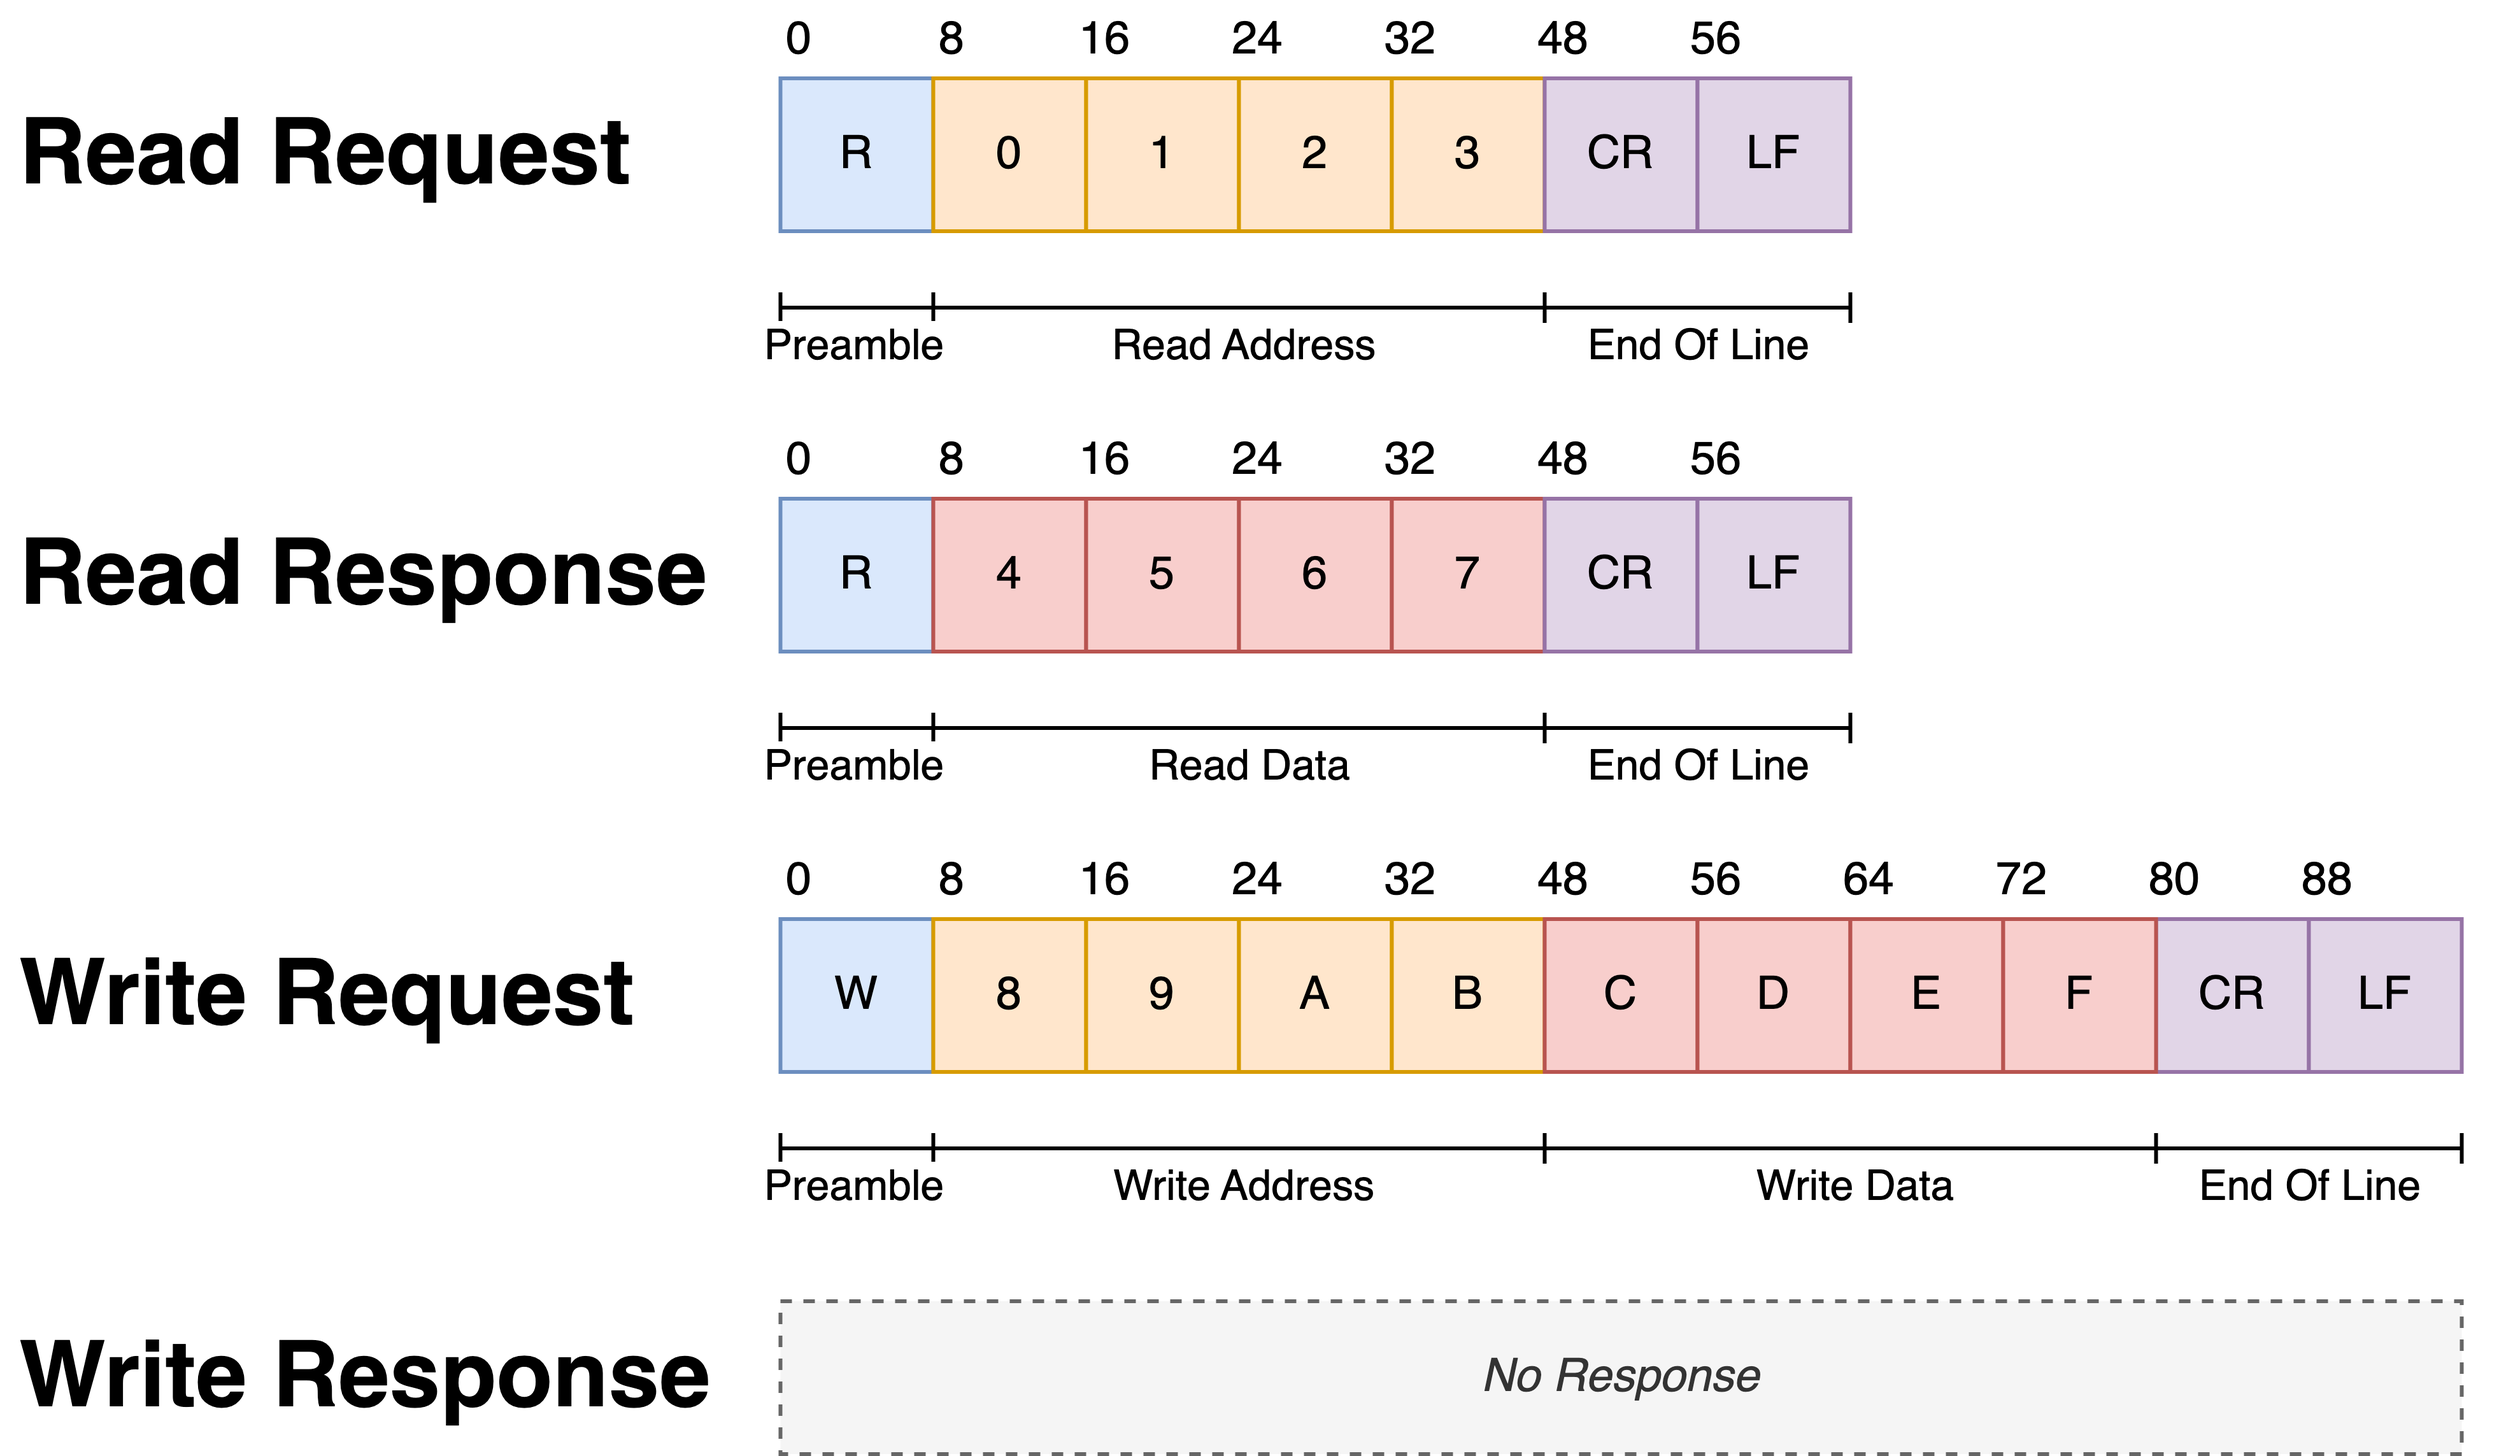
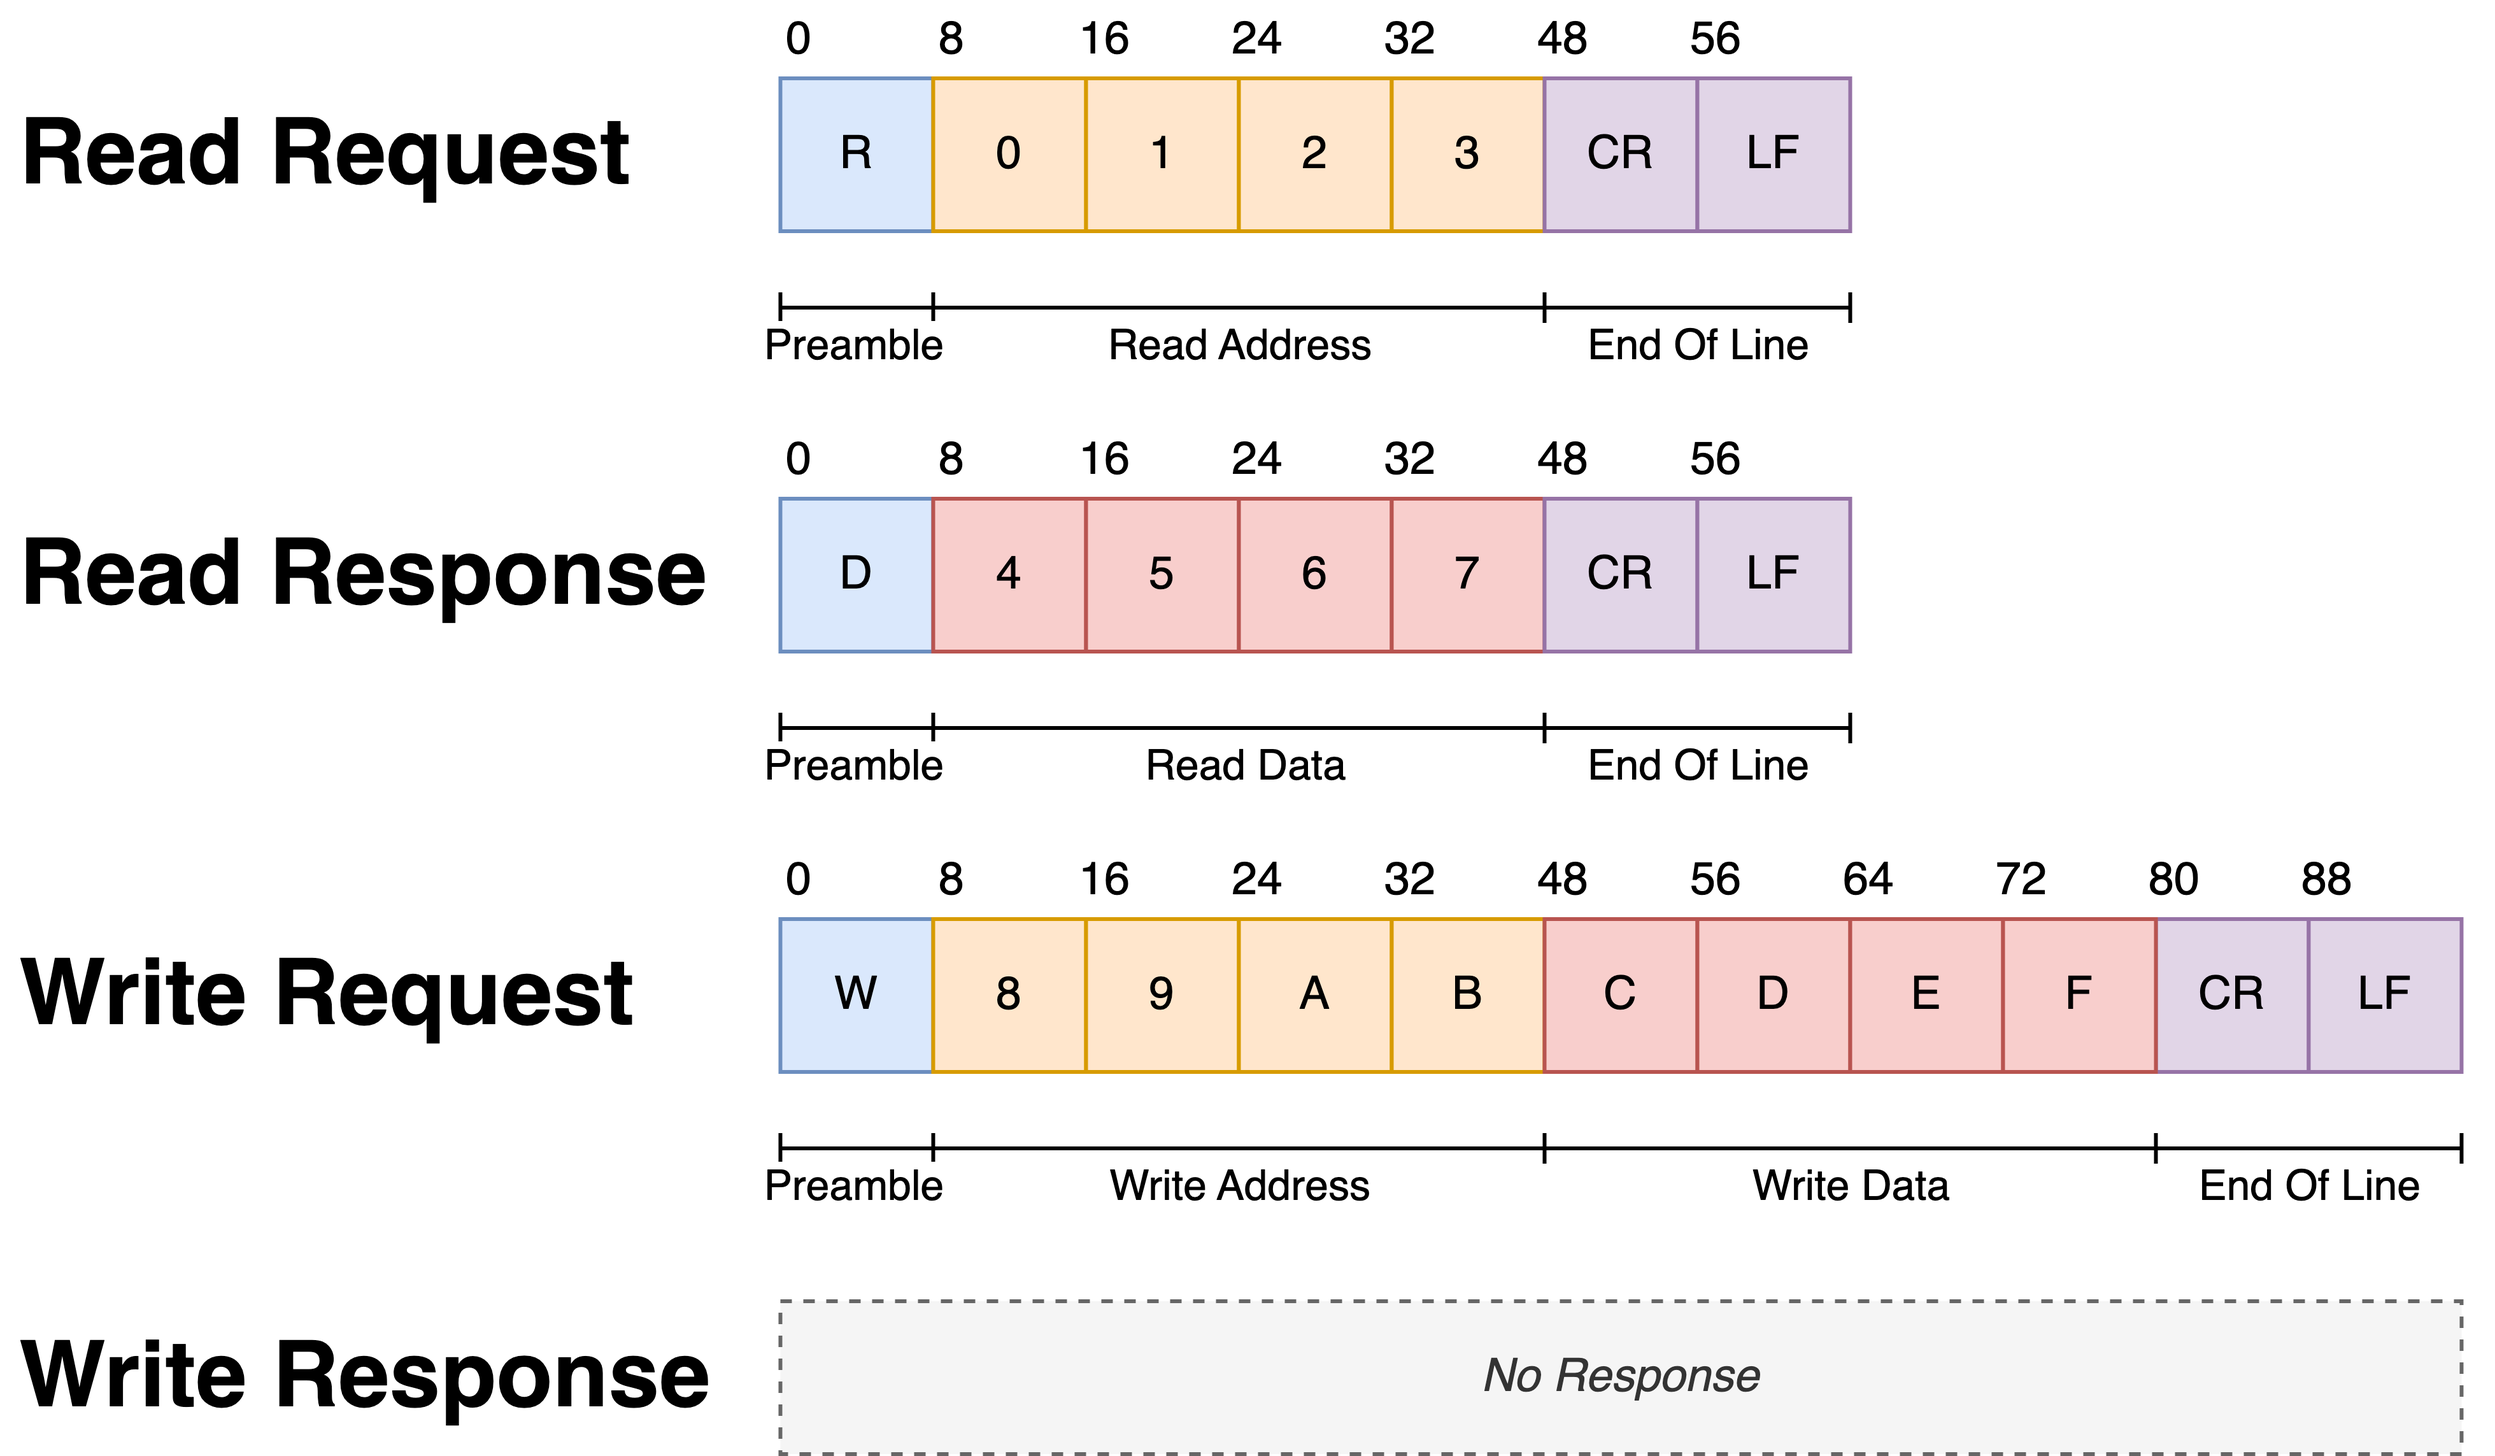
update read responses to use D as preamble

diff --git a/src/manta/uart_iface/__init__.py b/src/manta/uart_iface/__init__.py
@@ -75,9 +75,9 @@ class UARTInterface:
         assert response is not None, "No reponse received."
 
         response_str = response.decode('ascii')
-        assert response_str[0] == 'M', "Bad message recieved, incorrect preamble."
-        assert response_str[-1] == '\n', "Bad message received, incorrect EOL."
+        assert response_str[0] == 'D', "Bad message recieved, incorrect preamble."
         assert response_str[-2] == '\r', "Bad message received, incorrect EOL."
+        assert response_str[-1] == '\n', "Bad message received, incorrect EOL."
         assert len(response_str) == 7, f"Wrong number of bytes received, expecting 7 but got {len(response)}."
 
         return int(response_str[1:5], 16)
@@ -104,7 +104,7 @@ class UARTInterface:
         for i in range(0, len(addrs), self.chunk_size):
             addr_chunk = addrs[i:i+self.chunk_size]
 
-            outbound_bytes = [f"M{addr:04X}\r\n".encode('ascii') for addr in addr_chunk]
+            outbound_bytes = [f"R{addr:04X}\r\n".encode('ascii') for addr in addr_chunk]
             outbound_bytes = b"".join(outbound_bytes)
 
             self.ser.write(outbound_bytes)
@@ -155,7 +155,7 @@ class UARTInterface:
             data_chunk = datas[i:i+self.chunk_size]
 
 
-            outbound_bytes = [f"M{a:04X}{d:04X}\r\n" for a, d in zip(addr_chunk, data_chunk)]
+            outbound_bytes = [f"W{a:04X}{d:04X}\r\n" for a, d in zip(addr_chunk, data_chunk)]
             outbound_bytes = [ob.encode('ascii') for ob in outbound_bytes]
             outbound_bytes = b"".join(outbound_bytes)
 
